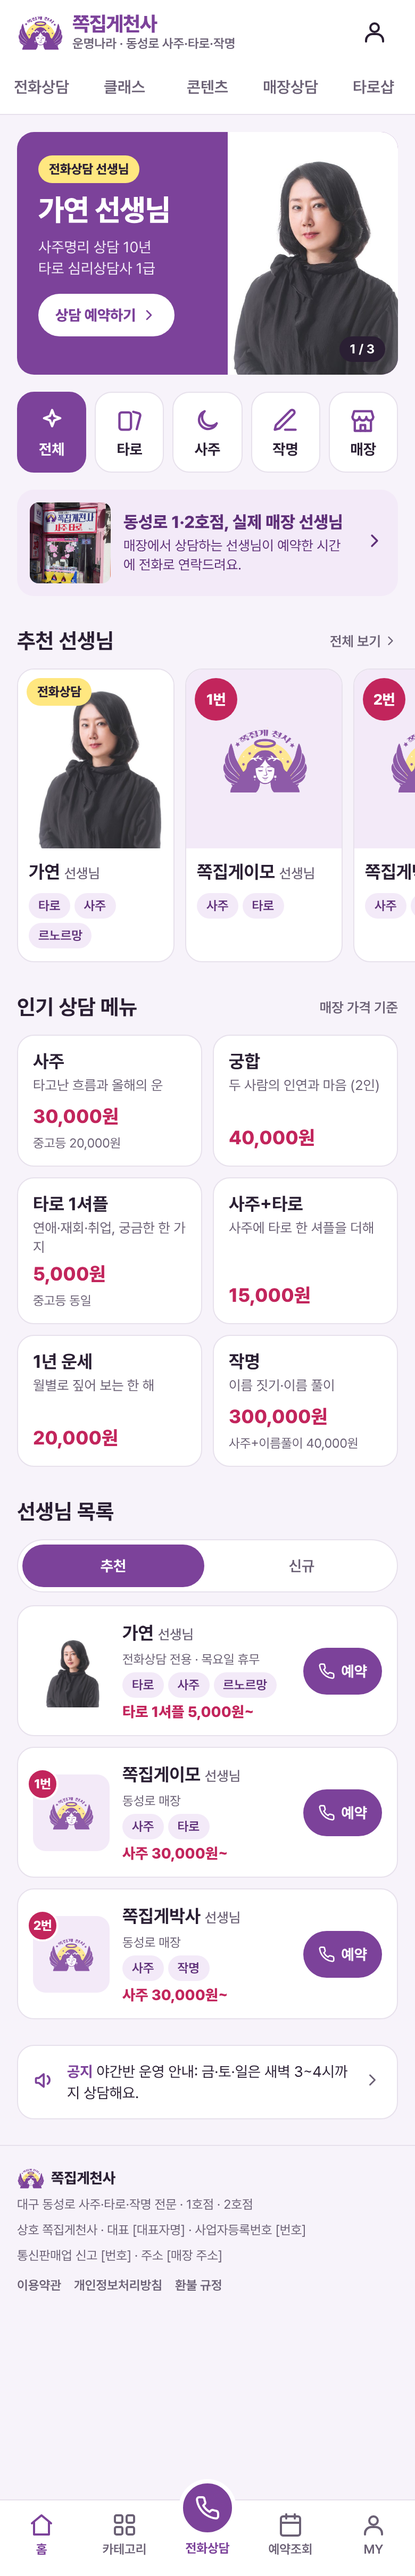
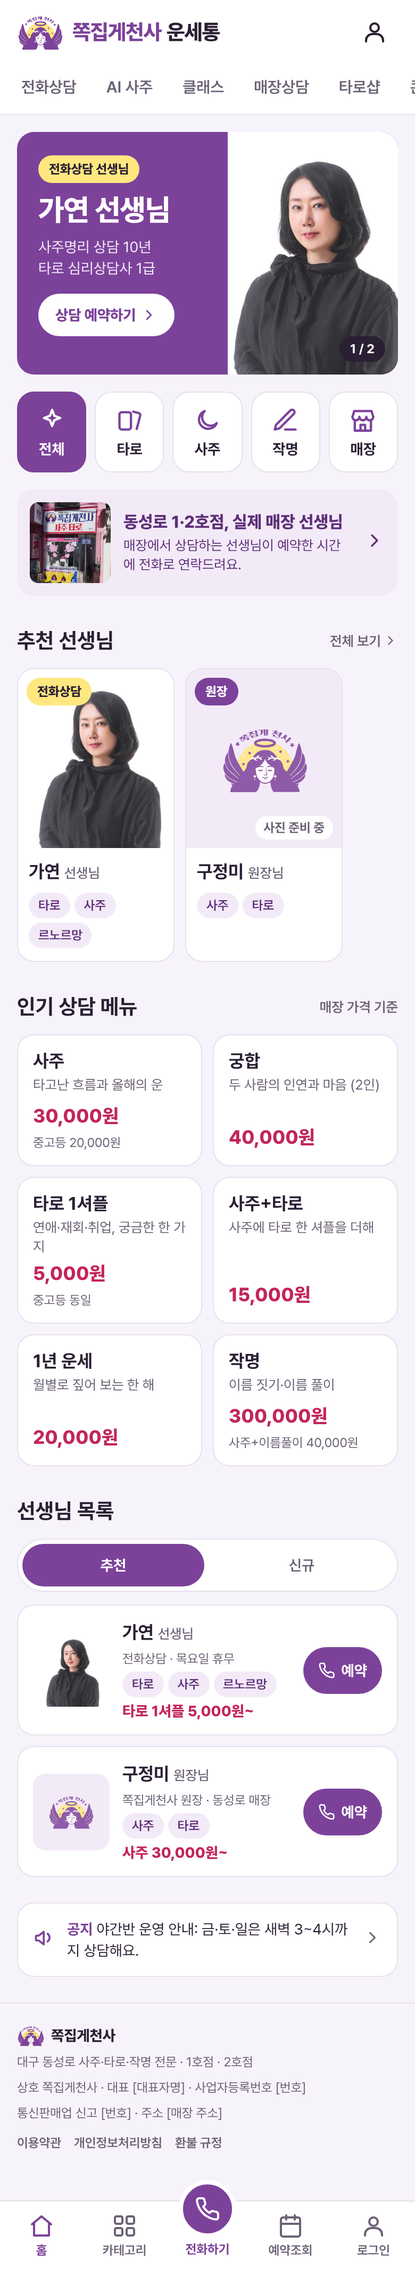
디자인 v2 1차 화면 그림을 11/20 수정본으로 교체
홈·전화상담·매장 화면의 그림과 HTML을 11/20 수정본으로 바꾸고, 보관 자료에 교체 기록을 남긴다.

diff --git a/docs/design/v2/html/main.html b/docs/design/v2/html/main.html
@@ -15,18 +15,17 @@ a{color:#7C429A;text-decoration:none}a:hover{color:#5E2F78}
 .ph{background:#F3EAF8;display:flex;align-items:center;justify-content:center}
 
 </style></head><body>
-<div style="position: relative; width: 390px; height: 2420px; overflow: hidden; background: #F7F3FA; font-family: 'Pretendard Variable', Pretendard, system-ui, sans-serif; color: #2A1F33;">
+<div style="position: relative; width: 390px; height: 2140px; overflow: hidden; background: #F7F3FA; font-family: 'Pretendard Variable', Pretendard, system-ui, sans-serif; color: #2A1F33;">
 <header style="display: flex; align-items: center; justify-content: space-between; height: 60px; padding: 0 16px; background: #FFFFFF;">
-<a href="Main.dc.html" style="display: flex; align-items: center; gap: 8px;" aria-label="쪽집게천사 운명나라 홈">
+<a href="Main.dc.html" style="display: flex; align-items: center; gap: 8px;" aria-label="쪽집게천사 운세통 홈">
 <img src="../images/logo-angel-mark.png" alt="" style="width: 44px; height: 34px; object-fit: contain;">
-<div style="display: flex; flex-direction: column; line-height: 1;">
-<span style="font-size: 19px; font-weight: 800; color: #7C429A; letter-spacing: -0.03em;">쪽집게천사</span>
-<span style="font-size: 12px; font-weight: 600; color: #6B6175; margin-top: 3px;">운명나라 · 동성로 사주·타로·작명</span>
+<div style="display: flex; align-items: baseline; gap: 5px; line-height: 1; white-space: nowrap; font-size: 20px; font-weight: 800; letter-spacing: -0.03em;">
+<span style="color: #7C429A;">쪽집게천사</span><span style="color: #2A1F33;">운세통</span>
 </div>
 </a>
-<button type="button" aria-label="로그인" style="width: 44px; height: 44px; border: 0; background: transparent; color: #2A1F33; display: flex; align-items: center; justify-content: center;"><svg class="ic" viewBox="0 0 24 24" aria-hidden="true" style="width: 24px; height: 24px;"><circle cx="12" cy="8" r="4"/><path d="M4 21v-1a6 6 0 0 1 6-6h4a6 6 0 0 1 6 6v1"/></svg></button>
+<a href="Login.dc.html" aria-label="로그인" style="width: 44px; height: 44px; border: 0; background: transparent; color: #2A1F33; display: flex; align-items: center; justify-content: center;"><svg class="ic" viewBox="0 0 24 24" aria-hidden="true" style="width: 24px; height: 24px;"><circle cx="12" cy="8" r="4"/><path d="M4 21v-1a6 6 0 0 1 6-6h4a6 6 0 0 1 6 6v1"/></svg></a>
 </header>
-<nav aria-label="주요 메뉴" style="display: grid; grid-template-columns: repeat(5, minmax(0, 1fr)); height: 48px; background: #FFFFFF; border-bottom: 1px solid #E7E1EC;"><a href="Consult.dc.html" style="display: flex; align-items: center; justify-content: center; font-size: 15px; font-weight: 600; color: #6B6175; border-bottom: 3px solid transparent;">전화상담</a><a href="Main.dc.html" style="display: flex; align-items: center; justify-content: center; font-size: 15px; font-weight: 600; color: #6B6175; border-bottom: 3px solid transparent;">클래스</a><a href="Main.dc.html" style="display: flex; align-items: center; justify-content: center; font-size: 15px; font-weight: 600; color: #6B6175; border-bottom: 3px solid transparent;">콘텐츠</a><a href="Stores.dc.html" style="display: flex; align-items: center; justify-content: center; font-size: 15px; font-weight: 600; color: #6B6175; border-bottom: 3px solid transparent;">매장상담</a><a href="Main.dc.html" style="display: flex; align-items: center; justify-content: center; font-size: 15px; font-weight: 600; color: #6B6175; border-bottom: 3px solid transparent;">타로샵</a></nav>
+<nav aria-label="주요 메뉴" style="display: flex; gap: 4px; height: 48px; padding: 0 8px; overflow-x: auto; white-space: nowrap; background: #FFFFFF; border-bottom: 1px solid #E7E1EC;"><a href="Consult.dc.html" style="flex: 0 0 auto; display: flex; align-items: center; padding: 0 12px; font-size: 15px; font-weight: 600; color: #6B6175; border-bottom: 3px solid transparent;">전화상담</a><a href="AiSaju.dc.html" style="flex: 0 0 auto; display: flex; align-items: center; padding: 0 12px; font-size: 15px; font-weight: 600; color: #6B6175; border-bottom: 3px solid transparent;">AI 사주</a><a href="Class.dc.html" style="flex: 0 0 auto; display: flex; align-items: center; padding: 0 12px; font-size: 15px; font-weight: 600; color: #6B6175; border-bottom: 3px solid transparent;">클래스</a><a href="Stores.dc.html" style="flex: 0 0 auto; display: flex; align-items: center; padding: 0 12px; font-size: 15px; font-weight: 600; color: #6B6175; border-bottom: 3px solid transparent;">매장상담</a><a href="Shop.dc.html" style="flex: 0 0 auto; display: flex; align-items: center; padding: 0 12px; font-size: 15px; font-weight: 600; color: #6B6175; border-bottom: 3px solid transparent;">타로샵</a><a href="Contents.dc.html" style="flex: 0 0 auto; display: flex; align-items: center; padding: 0 12px; font-size: 15px; font-weight: 600; color: #6B6175; border-bottom: 3px solid transparent;">콘텐츠</a></nav>
 <main style="padding-bottom: 96px;">
 <section aria-label="추천 배너" style="padding: 16px;">
 <div style="position: relative; height: 228px; border-radius: 16px; overflow: hidden; background: #7C429A;">
@@ -37,7 +36,7 @@ a{color:#7C429A;text-decoration:none}a:hover{color:#5E2F78}
 <div style="font-size: 14px; line-height: 20px; color: #F3EAF8;">사주명리 상담 10년<br>타로 심리상담사 1급</div>
 <a href="Counselor.dc.html" style="align-self: flex-start; display: inline-flex; align-items: center; gap: 4px; height: 40px; margin-top: 6px; padding: 0 16px; border-radius: 9999px; background: #FFFFFF; color: #7C429A; font-size: 14px; font-weight: 800;">상담 예약하기 <svg class="ic" viewBox="0 0 24 24" aria-hidden="true" style="width: 16px; height: 16px;"><path d="m9 18 6-6-6-6"/></svg></a>
 </div>
-<span style="position: absolute; right: 12px; bottom: 12px; display: inline-flex; align-items: center; height: 24px; padding: 0 10px; border-radius: 9999px; background: #2A1F33; color: #FFFFFF; font-size: 12px; font-weight: 700;">1 / 3</span>
+<span style="position: absolute; right: 12px; bottom: 12px; display: inline-flex; align-items: center; height: 24px; padding: 0 10px; border-radius: 9999px; background: #2A1F33; color: #FFFFFF; font-size: 12px; font-weight: 700;">1 / 2</span>
 </div>
 </section>
 <section aria-label="카테고리" style="display: grid; grid-template-columns: repeat(5, minmax(0, 1fr)); gap: 8px; padding: 0 16px 16px;">
@@ -61,20 +60,10 @@ a{color:#7C429A;text-decoration:none}a:hover{color:#5E2F78}
 <div style="font-size: 17px; font-weight: 700; line-height: 24px;">가연 <span style="font-size: 13px; font-weight: 500; color: #6B6175;">선생님</span></div>
 <div style="display: flex; gap: 4px; flex-wrap: wrap;"><span class="chip">타로</span><span class="chip">사주</span><span class="chip">르노르망</span></div>
 </div></a><a href="Counselor.dc.html" class="card" style="flex: 0 0 148px; overflow: hidden; color: #2A1F33;">
-<div style="position: relative;"><div class="ph" style="width: 148px; height: 168px;"><img src="../images/logo-angel-mark.png" alt="" style="width: 84px; opacity: 0.85;"></div><span class="num" style="position: absolute; left: 8px; top: 8px; width: 40px; height: 40px; font-size: 14px;">1번</span></div>
+<div style="position: relative;"><div class="ph" style="width: 148px; height: 168px;"><img src="../images/logo-angel-mark.png" alt="" style="width: 84px; opacity: 0.85;"></div><span style="position: absolute; left: 8px; top: 8px; display: inline-flex; align-items: center; height: 26px; padding: 0 10px; border-radius: 9999px; background: #7C429A; color: #FFFFFF; font-size: 12px; font-weight: 800;">원장</span><span style="position: absolute; right: 8px; bottom: 8px; display: inline-flex; align-items: center; height: 22px; padding: 0 8px; border-radius: 9999px; background: #FFFFFF; color: #6B6175; font-size: 12px; font-weight: 700;">사진 준비 중</span></div>
 <div style="padding: 10px 10px 12px; display: flex; flex-direction: column; gap: 6px;">
-<div style="font-size: 17px; font-weight: 700; line-height: 24px;">쪽집게이모 <span style="font-size: 13px; font-weight: 500; color: #6B6175;">선생님</span></div>
+<div style="font-size: 17px; font-weight: 700; line-height: 24px;">구정미 <span style="font-size: 13px; font-weight: 500; color: #6B6175;">원장님</span></div>
 <div style="display: flex; gap: 4px; flex-wrap: wrap;"><span class="chip">사주</span><span class="chip">타로</span></div>
-</div></a><a href="Counselor.dc.html" class="card" style="flex: 0 0 148px; overflow: hidden; color: #2A1F33;">
-<div style="position: relative;"><div class="ph" style="width: 148px; height: 168px;"><img src="../images/logo-angel-mark.png" alt="" style="width: 84px; opacity: 0.85;"></div><span class="num" style="position: absolute; left: 8px; top: 8px; width: 40px; height: 40px; font-size: 14px;">2번</span></div>
-<div style="padding: 10px 10px 12px; display: flex; flex-direction: column; gap: 6px;">
-<div style="font-size: 17px; font-weight: 700; line-height: 24px;">쪽집게박사 <span style="font-size: 13px; font-weight: 500; color: #6B6175;">선생님</span></div>
-<div style="display: flex; gap: 4px; flex-wrap: wrap;"><span class="chip">사주</span><span class="chip">작명</span></div>
-</div></a><a href="Counselor.dc.html" class="card" style="flex: 0 0 148px; overflow: hidden; color: #2A1F33;">
-<div style="position: relative;"><div class="ph" style="width: 148px; height: 168px;"><img src="../images/logo-angel-mark.png" alt="" style="width: 84px; opacity: 0.85;"></div><span class="num" style="position: absolute; left: 8px; top: 8px; width: 40px; height: 40px; font-size: 14px;">4번</span></div>
-<div style="padding: 10px 10px 12px; display: flex; flex-direction: column; gap: 6px;">
-<div style="font-size: 17px; font-weight: 700; line-height: 24px;">천사 <span style="font-size: 13px; font-weight: 500; color: #6B6175;">선생님</span></div>
-<div style="display: flex; gap: 4px; flex-wrap: wrap;"><span class="chip">타로</span><span class="chip">사주</span></div>
 </div></a></div>
 </section>
 <section style="padding-bottom: 28px;">
@@ -109,26 +98,17 @@ a{color:#7C429A;text-decoration:none}a:hover{color:#5E2F78}
 <div style="position: relative; flex-shrink: 0;"><img src="../images/gayeon.jpg" alt="가연 선생님" style="width: 72px; height: 72px; border-radius: 12px; object-fit: cover; object-position: center 18%;"></div>
 <div style="flex: 1; min-width: 0; display: flex; flex-direction: column; gap: 5px;">
 <div style="font-size: 17px; font-weight: 700; line-height: 22px;">가연 <span style="font-size: 13px; font-weight: 500; color: #6B6175;">선생님</span></div>
-<div style="font-size: 12px; color: #6B6175;">전화상담 전용 · 목요일 휴무</div>
+<div style="font-size: 12px; color: #6B6175;">전화상담 · 목요일 휴무</div>
 <div style="display: flex; gap: 4px; flex-wrap: wrap;"><span class="chip">타로</span><span class="chip">사주</span><span class="chip">르노르망</span></div>
 <div style="font-size: 14px; font-weight: 800; color: #C2255C;">타로 1셔플 5,000원~</div>
 </div>
 <a href="Counselor.dc.html" class="btn" style="height: 44px; padding: 0 14px; flex-shrink: 0;"><svg class="ic" viewBox="0 0 24 24" aria-hidden="true" style="width: 16px; height: 16px;"><path d="M22 16.9v3a2 2 0 0 1-2.2 2 19.8 19.8 0 0 1-8.6-3.1 19.5 19.5 0 0 1-6-6A19.8 19.8 0 0 1 2.1 4.2 2 2 0 0 1 4.1 2h3a2 2 0 0 1 2 1.7c.1.9.4 1.8.7 2.7a2 2 0 0 1-.5 2.1L8 9.8a16 16 0 0 0 6 6l1.3-1.3a2 2 0 0 1 2.1-.4c.9.3 1.8.6 2.7.7a2 2 0 0 1 1.7 2z"/></svg>예약</a>
 </div><div class="card" style="display: flex; gap: 12px; padding: 14px; align-items: center;">
-<div style="position: relative; flex-shrink: 0;"><div class="ph" style="width: 72px; height: 72px; border-radius: 12px;"><img src="../images/logo-angel-mark.png" alt="" style="width: 44px; opacity: 0.85;"></div><span class="num" style="position: absolute; left: -6px; top: -6px; width: 30px; height: 30px; font-size: 12px; border: 2px solid #FFFFFF;">1번</span></div>
+<div style="position: relative; flex-shrink: 0;"><div class="ph" style="width: 72px; height: 72px; border-radius: 12px;"><img src="../images/logo-angel-mark.png" alt="" style="width: 44px; opacity: 0.85;"></div></div>
 <div style="flex: 1; min-width: 0; display: flex; flex-direction: column; gap: 5px;">
-<div style="font-size: 17px; font-weight: 700; line-height: 22px;">쪽집게이모 <span style="font-size: 13px; font-weight: 500; color: #6B6175;">선생님</span></div>
-<div style="font-size: 12px; color: #6B6175;">동성로 매장</div>
+<div style="font-size: 17px; font-weight: 700; line-height: 22px;">구정미 <span style="font-size: 13px; font-weight: 500; color: #6B6175;">원장님</span></div>
+<div style="font-size: 12px; color: #6B6175;">쪽집게천사 원장 · 동성로 매장</div>
 <div style="display: flex; gap: 4px; flex-wrap: wrap;"><span class="chip">사주</span><span class="chip">타로</span></div>
-<div style="font-size: 14px; font-weight: 800; color: #C2255C;">사주 30,000원~</div>
-</div>
-<a href="Counselor.dc.html" class="btn" style="height: 44px; padding: 0 14px; flex-shrink: 0;"><svg class="ic" viewBox="0 0 24 24" aria-hidden="true" style="width: 16px; height: 16px;"><path d="M22 16.9v3a2 2 0 0 1-2.2 2 19.8 19.8 0 0 1-8.6-3.1 19.5 19.5 0 0 1-6-6A19.8 19.8 0 0 1 2.1 4.2 2 2 0 0 1 4.1 2h3a2 2 0 0 1 2 1.7c.1.9.4 1.8.7 2.7a2 2 0 0 1-.5 2.1L8 9.8a16 16 0 0 0 6 6l1.3-1.3a2 2 0 0 1 2.1-.4c.9.3 1.8.6 2.7.7a2 2 0 0 1 1.7 2z"/></svg>예약</a>
-</div><div class="card" style="display: flex; gap: 12px; padding: 14px; align-items: center;">
-<div style="position: relative; flex-shrink: 0;"><div class="ph" style="width: 72px; height: 72px; border-radius: 12px;"><img src="../images/logo-angel-mark.png" alt="" style="width: 44px; opacity: 0.85;"></div><span class="num" style="position: absolute; left: -6px; top: -6px; width: 30px; height: 30px; font-size: 12px; border: 2px solid #FFFFFF;">2번</span></div>
-<div style="flex: 1; min-width: 0; display: flex; flex-direction: column; gap: 5px;">
-<div style="font-size: 17px; font-weight: 700; line-height: 22px;">쪽집게박사 <span style="font-size: 13px; font-weight: 500; color: #6B6175;">선생님</span></div>
-<div style="font-size: 12px; color: #6B6175;">동성로 매장</div>
-<div style="display: flex; gap: 4px; flex-wrap: wrap;"><span class="chip">사주</span><span class="chip">작명</span></div>
 <div style="font-size: 14px; font-weight: 800; color: #C2255C;">사주 30,000원~</div>
 </div>
 <a href="Counselor.dc.html" class="btn" style="height: 44px; padding: 0 14px; flex-shrink: 0;"><svg class="ic" viewBox="0 0 24 24" aria-hidden="true" style="width: 16px; height: 16px;"><path d="M22 16.9v3a2 2 0 0 1-2.2 2 19.8 19.8 0 0 1-8.6-3.1 19.5 19.5 0 0 1-6-6A19.8 19.8 0 0 1 2.1 4.2 2 2 0 0 1 4.1 2h3a2 2 0 0 1 2 1.7c.1.9.4 1.8.7 2.7a2 2 0 0 1-.5 2.1L8 9.8a16 16 0 0 0 6 6l1.3-1.3a2 2 0 0 1 2.1-.4c.9.3 1.8.6 2.7.7a2 2 0 0 1 1.7 2z"/></svg>예약</a>
@@ -151,8 +131,8 @@ a{color:#7C429A;text-decoration:none}a:hover{color:#5E2F78}
 </main>
 <nav aria-label="하단 메뉴" style="position: absolute; left: 0; right: 0; bottom: 0; display: grid; grid-template-columns: repeat(5, minmax(0, 1fr)); height: 72px; padding-bottom: 8px; background: #FFFFFF; border-top: 1px solid #E7E1EC;">
 <a href="Main.dc.html" style="display: flex; flex-direction: column; align-items: center; justify-content: center; gap: 4px; height: 64px; color: #7C429A; font-size: 12px; font-weight: 700;"><svg class="ic" viewBox="0 0 24 24" aria-hidden="true" style="width: 24px; height: 24px;"><path d="M3 10.5 12 3l9 7.5"/><path d="M5 9.5V21h14V9.5"/></svg><span>홈</span></a><a href="Main.dc.html" style="display: flex; flex-direction: column; align-items: center; justify-content: center; gap: 4px; height: 64px; color: #6B6175; font-size: 12px; font-weight: 600;"><svg class="ic" viewBox="0 0 24 24" aria-hidden="true" style="width: 24px; height: 24px;"><rect x="3" y="3" width="7" height="7" rx="1.5"/><rect x="14" y="3" width="7" height="7" rx="1.5"/><rect x="3" y="14" width="7" height="7" rx="1.5"/><rect x="14" y="14" width="7" height="7" rx="1.5"/></svg><span>카테고리</span></a>
-<a href="Consult.dc.html" style="display: flex; flex-direction: column; align-items: center; justify-content: flex-start; gap: 4px; color: #7C429A; font-size: 12px; font-weight: 700;"><span style="display: flex; align-items: center; justify-content: center; width: 54px; height: 54px; margin-top: -20px; border-radius: 9999px; background: #7C429A; color: #FFFFFF; border: 4px solid #FFFFFF;"><svg class="ic" viewBox="0 0 24 24" aria-hidden="true" style="width: 24px; height: 24px;"><path d="M22 16.9v3a2 2 0 0 1-2.2 2 19.8 19.8 0 0 1-8.6-3.1 19.5 19.5 0 0 1-6-6A19.8 19.8 0 0 1 2.1 4.2 2 2 0 0 1 4.1 2h3a2 2 0 0 1 2 1.7c.1.9.4 1.8.7 2.7a2 2 0 0 1-.5 2.1L8 9.8a16 16 0 0 0 6 6l1.3-1.3a2 2 0 0 1 2.1-.4c.9.3 1.8.6 2.7.7a2 2 0 0 1 1.7 2z"/></svg></span><span>전화상담</span></a>
-<a href="Main.dc.html" style="display: flex; flex-direction: column; align-items: center; justify-content: center; gap: 4px; height: 64px; color: #6B6175; font-size: 12px; font-weight: 600;"><svg class="ic" viewBox="0 0 24 24" aria-hidden="true" style="width: 24px; height: 24px;"><rect x="3" y="4" width="18" height="18" rx="2"/><path d="M16 2v4M8 2v4M3 10h18"/></svg><span>예약조회</span></a><a href="Main.dc.html" style="display: flex; flex-direction: column; align-items: center; justify-content: center; gap: 4px; height: 64px; color: #6B6175; font-size: 12px; font-weight: 600;"><svg class="ic" viewBox="0 0 24 24" aria-hidden="true" style="width: 24px; height: 24px;"><circle cx="12" cy="8" r="4"/><path d="M4 21v-1a6 6 0 0 1 6-6h4a6 6 0 0 1 6 6v1"/></svg><span>MY</span></a>
+<a href="Consult.dc.html" style="display: flex; flex-direction: column; align-items: center; justify-content: flex-start; gap: 4px; color: #7C429A; font-size: 12px; font-weight: 700;"><span style="display: flex; align-items: center; justify-content: center; width: 54px; height: 54px; margin-top: -20px; border-radius: 9999px; background: #7C429A; color: #FFFFFF; border: 4px solid #FFFFFF;"><svg class="ic" viewBox="0 0 24 24" aria-hidden="true" style="width: 24px; height: 24px;"><path d="M22 16.9v3a2 2 0 0 1-2.2 2 19.8 19.8 0 0 1-8.6-3.1 19.5 19.5 0 0 1-6-6A19.8 19.8 0 0 1 2.1 4.2 2 2 0 0 1 4.1 2h3a2 2 0 0 1 2 1.7c.1.9.4 1.8.7 2.7a2 2 0 0 1-.5 2.1L8 9.8a16 16 0 0 0 6 6l1.3-1.3a2 2 0 0 1 2.1-.4c.9.3 1.8.6 2.7.7a2 2 0 0 1 1.7 2z"/></svg></span><span>전화하기</span></a>
+<a href="Lookup.dc.html" style="display: flex; flex-direction: column; align-items: center; justify-content: center; gap: 4px; height: 64px; color: #6B6175; font-size: 12px; font-weight: 600;"><svg class="ic" viewBox="0 0 24 24" aria-hidden="true" style="width: 24px; height: 24px;"><rect x="3" y="4" width="18" height="18" rx="2"/><path d="M16 2v4M8 2v4M3 10h18"/></svg><span>예약조회</span></a><a href="Login.dc.html" style="display: flex; flex-direction: column; align-items: center; justify-content: center; gap: 4px; height: 64px; color: #6B6175; font-size: 12px; font-weight: 600;"><svg class="ic" viewBox="0 0 24 24" aria-hidden="true" style="width: 24px; height: 24px;"><circle cx="12" cy="8" r="4"/><path d="M4 21v-1a6 6 0 0 1 6-6h4a6 6 0 0 1 6 6v1"/></svg><span>로그인</span></a>
 </nav>
 </div>
 </body></html>

diff --git a/docs/design/v2/html/consult.html b/docs/design/v2/html/consult.html
@@ -15,18 +15,17 @@ a{color:#7C429A;text-decoration:none}a:hover{color:#5E2F78}
 .ph{background:#F3EAF8;display:flex;align-items:center;justify-content:center}
 
 </style></head><body>
-<div style="position: relative; width: 390px; height: 1580px; overflow: hidden; background: #F7F3FA; font-family: 'Pretendard Variable', Pretendard, system-ui, sans-serif; color: #2A1F33;">
+<div style="position: relative; width: 390px; height: 1100px; overflow: hidden; background: #F7F3FA; font-family: 'Pretendard Variable', Pretendard, system-ui, sans-serif; color: #2A1F33;">
 <header style="display: flex; align-items: center; justify-content: space-between; height: 60px; padding: 0 16px; background: #FFFFFF;">
-<a href="Main.dc.html" style="display: flex; align-items: center; gap: 8px;" aria-label="쪽집게천사 운명나라 홈">
+<a href="Main.dc.html" style="display: flex; align-items: center; gap: 8px;" aria-label="쪽집게천사 운세통 홈">
 <img src="../images/logo-angel-mark.png" alt="" style="width: 44px; height: 34px; object-fit: contain;">
-<div style="display: flex; flex-direction: column; line-height: 1;">
-<span style="font-size: 19px; font-weight: 800; color: #7C429A; letter-spacing: -0.03em;">쪽집게천사</span>
-<span style="font-size: 12px; font-weight: 600; color: #6B6175; margin-top: 3px;">운명나라 · 동성로 사주·타로·작명</span>
+<div style="display: flex; align-items: baseline; gap: 5px; line-height: 1; white-space: nowrap; font-size: 20px; font-weight: 800; letter-spacing: -0.03em;">
+<span style="color: #7C429A;">쪽집게천사</span><span style="color: #2A1F33;">운세통</span>
 </div>
 </a>
-<button type="button" aria-label="로그인" style="width: 44px; height: 44px; border: 0; background: transparent; color: #2A1F33; display: flex; align-items: center; justify-content: center;"><svg class="ic" viewBox="0 0 24 24" aria-hidden="true" style="width: 24px; height: 24px;"><circle cx="12" cy="8" r="4"/><path d="M4 21v-1a6 6 0 0 1 6-6h4a6 6 0 0 1 6 6v1"/></svg></button>
+<a href="Login.dc.html" aria-label="로그인" style="width: 44px; height: 44px; border: 0; background: transparent; color: #2A1F33; display: flex; align-items: center; justify-content: center;"><svg class="ic" viewBox="0 0 24 24" aria-hidden="true" style="width: 24px; height: 24px;"><circle cx="12" cy="8" r="4"/><path d="M4 21v-1a6 6 0 0 1 6-6h4a6 6 0 0 1 6 6v1"/></svg></a>
 </header>
-<nav aria-label="주요 메뉴" style="display: grid; grid-template-columns: repeat(5, minmax(0, 1fr)); height: 48px; background: #FFFFFF; border-bottom: 1px solid #E7E1EC;"><a href="Consult.dc.html" style="display: flex; align-items: center; justify-content: center; font-size: 15px; font-weight: 700; color: #7C429A; border-bottom: 3px solid #7C429A;">전화상담</a><a href="Main.dc.html" style="display: flex; align-items: center; justify-content: center; font-size: 15px; font-weight: 600; color: #6B6175; border-bottom: 3px solid transparent;">클래스</a><a href="Main.dc.html" style="display: flex; align-items: center; justify-content: center; font-size: 15px; font-weight: 600; color: #6B6175; border-bottom: 3px solid transparent;">콘텐츠</a><a href="Stores.dc.html" style="display: flex; align-items: center; justify-content: center; font-size: 15px; font-weight: 600; color: #6B6175; border-bottom: 3px solid transparent;">매장상담</a><a href="Main.dc.html" style="display: flex; align-items: center; justify-content: center; font-size: 15px; font-weight: 600; color: #6B6175; border-bottom: 3px solid transparent;">타로샵</a></nav>
+<nav aria-label="주요 메뉴" style="display: flex; gap: 4px; height: 48px; padding: 0 8px; overflow-x: auto; white-space: nowrap; background: #FFFFFF; border-bottom: 1px solid #E7E1EC;"><a href="Consult.dc.html" style="flex: 0 0 auto; display: flex; align-items: center; padding: 0 12px; font-size: 15px; font-weight: 700; color: #7C429A; border-bottom: 3px solid #7C429A;">전화상담</a><a href="AiSaju.dc.html" style="flex: 0 0 auto; display: flex; align-items: center; padding: 0 12px; font-size: 15px; font-weight: 600; color: #6B6175; border-bottom: 3px solid transparent;">AI 사주</a><a href="Class.dc.html" style="flex: 0 0 auto; display: flex; align-items: center; padding: 0 12px; font-size: 15px; font-weight: 600; color: #6B6175; border-bottom: 3px solid transparent;">클래스</a><a href="Stores.dc.html" style="flex: 0 0 auto; display: flex; align-items: center; padding: 0 12px; font-size: 15px; font-weight: 600; color: #6B6175; border-bottom: 3px solid transparent;">매장상담</a><a href="Shop.dc.html" style="flex: 0 0 auto; display: flex; align-items: center; padding: 0 12px; font-size: 15px; font-weight: 600; color: #6B6175; border-bottom: 3px solid transparent;">타로샵</a><a href="Contents.dc.html" style="flex: 0 0 auto; display: flex; align-items: center; padding: 0 12px; font-size: 15px; font-weight: 600; color: #6B6175; border-bottom: 3px solid transparent;">콘텐츠</a></nav>
 <main style="padding: 24px 16px 96px; display: flex; flex-direction: column; gap: 16px;">
 <div>
 <h1 style="margin: 0; font-size: 26px; line-height: 34px; font-weight: 800;">전화상담</h1>
@@ -38,13 +37,13 @@ a{color:#7C429A;text-decoration:none}a:hover{color:#5E2F78}
 <div style="font-size: 13px; color: #6B6175;">회원가입 없이도 예약할 수 있어요. 예약 내역은 예약번호로 조회해요.</div>
 </div>
 <div style="display: flex; gap: 8px;"><button type="button" style="height: 40px; padding: 0 18px; border-radius: 9999px; border: 1px solid #7C429A; background: #7C429A; color: #FFFFFF; font-family: inherit; font-size: 14px; font-weight: 700;">전체</button><button type="button" style="height: 40px; padding: 0 18px; border-radius: 9999px; border: 1px solid #E7E1EC; background: #FFFFFF; color: #2A1F33; font-family: inherit; font-size: 14px; font-weight: 700;">타로</button><button type="button" style="height: 40px; padding: 0 18px; border-radius: 9999px; border: 1px solid #E7E1EC; background: #FFFFFF; color: #2A1F33; font-family: inherit; font-size: 14px; font-weight: 700;">사주</button><button type="button" style="height: 40px; padding: 0 18px; border-radius: 9999px; border: 1px solid #E7E1EC; background: #FFFFFF; color: #2A1F33; font-family: inherit; font-size: 14px; font-weight: 700;">작명</button></div>
-<div style="font-size: 13px; font-weight: 600; color: #6B6175;">선생님 4명</div>
+<div style="font-size: 13px; font-weight: 600; color: #6B6175;">선생님 2명</div>
 <div style="display: flex; flex-direction: column; gap: 12px;"><div class="card" style="padding: 14px; display: flex; flex-direction: column; gap: 12px;">
 <div style="display: flex; gap: 12px;">
 <div style="position: relative; flex-shrink: 0;"><img src="../images/gayeon.jpg" alt="가연 선생님" style="width: 84px; height: 84px; border-radius: 12px; object-fit: cover; object-position: center 18%;"></div>
 <div style="flex: 1; min-width: 0; display: flex; flex-direction: column; gap: 5px;">
 <div style="font-size: 17px; font-weight: 700; line-height: 22px;">가연 <span style="font-size: 13px; font-weight: 500; color: #6B6175;">선생님</span></div>
-<div style="font-size: 12px; color: #6B6175;">전화상담 전용 · 목요일 휴무</div>
+<div style="font-size: 12px; color: #6B6175;">전화상담 · 목요일 휴무</div>
 <div style="display: flex; gap: 4px; flex-wrap: wrap;"><span class="chip">타로</span><span class="chip">사주</span><span class="chip">르노르망</span></div>
 <div style="font-size: 13px; line-height: 18px; color: #2A1F33;">사주명리 10년 · 타로 심리상담사 1급</div>
 </div></div>
@@ -53,46 +52,22 @@ a{color:#7C429A;text-decoration:none}a:hover{color:#5E2F78}
 <a href="Counselor.dc.html" class="btn"><svg class="ic" viewBox="0 0 24 24" aria-hidden="true" style="width: 16px; height: 16px;"><path d="M22 16.9v3a2 2 0 0 1-2.2 2 19.8 19.8 0 0 1-8.6-3.1 19.5 19.5 0 0 1-6-6A19.8 19.8 0 0 1 2.1 4.2 2 2 0 0 1 4.1 2h3a2 2 0 0 1 2 1.7c.1.9.4 1.8.7 2.7a2 2 0 0 1-.5 2.1L8 9.8a16 16 0 0 0 6 6l1.3-1.3a2 2 0 0 1 2.1-.4c.9.3 1.8.6 2.7.7a2 2 0 0 1 1.7 2z"/></svg>전화상담 예약</a>
 </div></div><div class="card" style="padding: 14px; display: flex; flex-direction: column; gap: 12px;">
 <div style="display: flex; gap: 12px;">
-<div style="position: relative; flex-shrink: 0;"><div class="ph" style="width: 84px; height: 84px; border-radius: 12px;"><img src="../images/logo-angel-mark.png" alt="" style="width: 52px; opacity: 0.85;"></div><span class="num" style="position: absolute; left: -6px; top: -6px; width: 32px; height: 32px; font-size: 12px; border: 2px solid #FFFFFF;">1번</span></div>
+<div style="position: relative; flex-shrink: 0;"><div class="ph" style="width: 84px; height: 84px; border-radius: 12px;"><img src="../images/logo-angel-mark.png" alt="" style="width: 52px; opacity: 0.85;"></div></div>
 <div style="flex: 1; min-width: 0; display: flex; flex-direction: column; gap: 5px;">
-<div style="font-size: 17px; font-weight: 700; line-height: 22px;">쪽집게이모 <span style="font-size: 13px; font-weight: 500; color: #6B6175;">선생님</span></div>
-<div style="font-size: 12px; color: #6B6175;">동성로 매장</div>
+<div style="font-size: 17px; font-weight: 700; line-height: 22px;">구정미 <span style="font-size: 13px; font-weight: 500; color: #6B6175;">원장님</span></div>
+<div style="font-size: 12px; color: #6B6175;">쪽집게천사 원장 · 동성로 매장</div>
 <div style="display: flex; gap: 4px; flex-wrap: wrap;"><span class="chip">사주</span><span class="chip">타로</span></div>
 <div style="font-size: 13px; line-height: 18px; color: #2A1F33;">[소개 문구 받기 전]</div>
 </div></div>
 <div style="display: flex; align-items: center; justify-content: space-between; padding-top: 12px; border-top: 1px solid #E7E1EC;">
 <span style="font-size: 15px; font-weight: 800; color: #C2255C;">사주 30,000원~</span>
 <a href="Counselor.dc.html" class="btn"><svg class="ic" viewBox="0 0 24 24" aria-hidden="true" style="width: 16px; height: 16px;"><path d="M22 16.9v3a2 2 0 0 1-2.2 2 19.8 19.8 0 0 1-8.6-3.1 19.5 19.5 0 0 1-6-6A19.8 19.8 0 0 1 2.1 4.2 2 2 0 0 1 4.1 2h3a2 2 0 0 1 2 1.7c.1.9.4 1.8.7 2.7a2 2 0 0 1-.5 2.1L8 9.8a16 16 0 0 0 6 6l1.3-1.3a2 2 0 0 1 2.1-.4c.9.3 1.8.6 2.7.7a2 2 0 0 1 1.7 2z"/></svg>전화상담 예약</a>
-</div></div><div class="card" style="padding: 14px; display: flex; flex-direction: column; gap: 12px;">
-<div style="display: flex; gap: 12px;">
-<div style="position: relative; flex-shrink: 0;"><div class="ph" style="width: 84px; height: 84px; border-radius: 12px;"><img src="../images/logo-angel-mark.png" alt="" style="width: 52px; opacity: 0.85;"></div><span class="num" style="position: absolute; left: -6px; top: -6px; width: 32px; height: 32px; font-size: 12px; border: 2px solid #FFFFFF;">2번</span></div>
-<div style="flex: 1; min-width: 0; display: flex; flex-direction: column; gap: 5px;">
-<div style="font-size: 17px; font-weight: 700; line-height: 22px;">쪽집게박사 <span style="font-size: 13px; font-weight: 500; color: #6B6175;">선생님</span></div>
-<div style="font-size: 12px; color: #6B6175;">동성로 매장</div>
-<div style="display: flex; gap: 4px; flex-wrap: wrap;"><span class="chip">사주</span><span class="chip">작명</span></div>
-<div style="font-size: 13px; line-height: 18px; color: #2A1F33;">[소개 문구 받기 전]</div>
-</div></div>
-<div style="display: flex; align-items: center; justify-content: space-between; padding-top: 12px; border-top: 1px solid #E7E1EC;">
-<span style="font-size: 15px; font-weight: 800; color: #C2255C;">사주 30,000원~</span>
-<a href="Counselor.dc.html" class="btn"><svg class="ic" viewBox="0 0 24 24" aria-hidden="true" style="width: 16px; height: 16px;"><path d="M22 16.9v3a2 2 0 0 1-2.2 2 19.8 19.8 0 0 1-8.6-3.1 19.5 19.5 0 0 1-6-6A19.8 19.8 0 0 1 2.1 4.2 2 2 0 0 1 4.1 2h3a2 2 0 0 1 2 1.7c.1.9.4 1.8.7 2.7a2 2 0 0 1-.5 2.1L8 9.8a16 16 0 0 0 6 6l1.3-1.3a2 2 0 0 1 2.1-.4c.9.3 1.8.6 2.7.7a2 2 0 0 1 1.7 2z"/></svg>전화상담 예약</a>
-</div></div><div class="card" style="padding: 14px; display: flex; flex-direction: column; gap: 12px;">
-<div style="display: flex; gap: 12px;">
-<div style="position: relative; flex-shrink: 0;"><div class="ph" style="width: 84px; height: 84px; border-radius: 12px;"><img src="../images/logo-angel-mark.png" alt="" style="width: 52px; opacity: 0.85;"></div><span class="num" style="position: absolute; left: -6px; top: -6px; width: 32px; height: 32px; font-size: 12px; border: 2px solid #FFFFFF;">4번</span></div>
-<div style="flex: 1; min-width: 0; display: flex; flex-direction: column; gap: 5px;">
-<div style="font-size: 17px; font-weight: 700; line-height: 22px;">천사 <span style="font-size: 13px; font-weight: 500; color: #6B6175;">선생님</span></div>
-<div style="font-size: 12px; color: #6B6175;">동성로 매장</div>
-<div style="display: flex; gap: 4px; flex-wrap: wrap;"><span class="chip">타로</span><span class="chip">사주</span></div>
-<div style="font-size: 13px; line-height: 18px; color: #2A1F33;">[소개 문구 받기 전]</div>
-</div></div>
-<div style="display: flex; align-items: center; justify-content: space-between; padding-top: 12px; border-top: 1px solid #E7E1EC;">
-<span style="font-size: 15px; font-weight: 800; color: #C2255C;">타로 1셔플 5,000원~</span>
-<a href="Counselor.dc.html" class="btn"><svg class="ic" viewBox="0 0 24 24" aria-hidden="true" style="width: 16px; height: 16px;"><path d="M22 16.9v3a2 2 0 0 1-2.2 2 19.8 19.8 0 0 1-8.6-3.1 19.5 19.5 0 0 1-6-6A19.8 19.8 0 0 1 2.1 4.2 2 2 0 0 1 4.1 2h3a2 2 0 0 1 2 1.7c.1.9.4 1.8.7 2.7a2 2 0 0 1-.5 2.1L8 9.8a16 16 0 0 0 6 6l1.3-1.3a2 2 0 0 1 2.1-.4c.9.3 1.8.6 2.7.7a2 2 0 0 1 1.7 2z"/></svg>전화상담 예약</a>
 </div></div></div>
 </main>
 <nav aria-label="하단 메뉴" style="position: absolute; left: 0; right: 0; bottom: 0; display: grid; grid-template-columns: repeat(5, minmax(0, 1fr)); height: 72px; padding-bottom: 8px; background: #FFFFFF; border-top: 1px solid #E7E1EC;">
 <a href="Main.dc.html" style="display: flex; flex-direction: column; align-items: center; justify-content: center; gap: 4px; height: 64px; color: #6B6175; font-size: 12px; font-weight: 600;"><svg class="ic" viewBox="0 0 24 24" aria-hidden="true" style="width: 24px; height: 24px;"><path d="M3 10.5 12 3l9 7.5"/><path d="M5 9.5V21h14V9.5"/></svg><span>홈</span></a><a href="Main.dc.html" style="display: flex; flex-direction: column; align-items: center; justify-content: center; gap: 4px; height: 64px; color: #6B6175; font-size: 12px; font-weight: 600;"><svg class="ic" viewBox="0 0 24 24" aria-hidden="true" style="width: 24px; height: 24px;"><rect x="3" y="3" width="7" height="7" rx="1.5"/><rect x="14" y="3" width="7" height="7" rx="1.5"/><rect x="3" y="14" width="7" height="7" rx="1.5"/><rect x="14" y="14" width="7" height="7" rx="1.5"/></svg><span>카테고리</span></a>
-<a href="Consult.dc.html" style="display: flex; flex-direction: column; align-items: center; justify-content: flex-start; gap: 4px; color: #7C429A; font-size: 12px; font-weight: 700;"><span style="display: flex; align-items: center; justify-content: center; width: 54px; height: 54px; margin-top: -20px; border-radius: 9999px; background: #7C429A; color: #FFFFFF; border: 4px solid #FFFFFF;"><svg class="ic" viewBox="0 0 24 24" aria-hidden="true" style="width: 24px; height: 24px;"><path d="M22 16.9v3a2 2 0 0 1-2.2 2 19.8 19.8 0 0 1-8.6-3.1 19.5 19.5 0 0 1-6-6A19.8 19.8 0 0 1 2.1 4.2 2 2 0 0 1 4.1 2h3a2 2 0 0 1 2 1.7c.1.9.4 1.8.7 2.7a2 2 0 0 1-.5 2.1L8 9.8a16 16 0 0 0 6 6l1.3-1.3a2 2 0 0 1 2.1-.4c.9.3 1.8.6 2.7.7a2 2 0 0 1 1.7 2z"/></svg></span><span>전화상담</span></a>
-<a href="Main.dc.html" style="display: flex; flex-direction: column; align-items: center; justify-content: center; gap: 4px; height: 64px; color: #6B6175; font-size: 12px; font-weight: 600;"><svg class="ic" viewBox="0 0 24 24" aria-hidden="true" style="width: 24px; height: 24px;"><rect x="3" y="4" width="18" height="18" rx="2"/><path d="M16 2v4M8 2v4M3 10h18"/></svg><span>예약조회</span></a><a href="Main.dc.html" style="display: flex; flex-direction: column; align-items: center; justify-content: center; gap: 4px; height: 64px; color: #6B6175; font-size: 12px; font-weight: 600;"><svg class="ic" viewBox="0 0 24 24" aria-hidden="true" style="width: 24px; height: 24px;"><circle cx="12" cy="8" r="4"/><path d="M4 21v-1a6 6 0 0 1 6-6h4a6 6 0 0 1 6 6v1"/></svg><span>MY</span></a>
+<a href="Consult.dc.html" style="display: flex; flex-direction: column; align-items: center; justify-content: flex-start; gap: 4px; color: #7C429A; font-size: 12px; font-weight: 700;"><span style="display: flex; align-items: center; justify-content: center; width: 54px; height: 54px; margin-top: -20px; border-radius: 9999px; background: #7C429A; color: #FFFFFF; border: 4px solid #FFFFFF;"><svg class="ic" viewBox="0 0 24 24" aria-hidden="true" style="width: 24px; height: 24px;"><path d="M22 16.9v3a2 2 0 0 1-2.2 2 19.8 19.8 0 0 1-8.6-3.1 19.5 19.5 0 0 1-6-6A19.8 19.8 0 0 1 2.1 4.2 2 2 0 0 1 4.1 2h3a2 2 0 0 1 2 1.7c.1.9.4 1.8.7 2.7a2 2 0 0 1-.5 2.1L8 9.8a16 16 0 0 0 6 6l1.3-1.3a2 2 0 0 1 2.1-.4c.9.3 1.8.6 2.7.7a2 2 0 0 1 1.7 2z"/></svg></span><span>전화하기</span></a>
+<a href="Lookup.dc.html" style="display: flex; flex-direction: column; align-items: center; justify-content: center; gap: 4px; height: 64px; color: #6B6175; font-size: 12px; font-weight: 600;"><svg class="ic" viewBox="0 0 24 24" aria-hidden="true" style="width: 24px; height: 24px;"><rect x="3" y="4" width="18" height="18" rx="2"/><path d="M16 2v4M8 2v4M3 10h18"/></svg><span>예약조회</span></a><a href="Login.dc.html" style="display: flex; flex-direction: column; align-items: center; justify-content: center; gap: 4px; height: 64px; color: #6B6175; font-size: 12px; font-weight: 600;"><svg class="ic" viewBox="0 0 24 24" aria-hidden="true" style="width: 24px; height: 24px;"><circle cx="12" cy="8" r="4"/><path d="M4 21v-1a6 6 0 0 1 6-6h4a6 6 0 0 1 6 6v1"/></svg><span>로그인</span></a>
 </nav>
 </div>
 </body></html>

diff --git a/docs/design/v2/html/stores.html b/docs/design/v2/html/stores.html
@@ -17,16 +17,15 @@ a{color:#7C429A;text-decoration:none}a:hover{color:#5E2F78}
 </style></head><body>
 <div style="position: relative; width: 390px; height: 2420px; overflow: hidden; background: #F7F3FA; font-family: 'Pretendard Variable', Pretendard, system-ui, sans-serif; color: #2A1F33;">
 <header style="display: flex; align-items: center; justify-content: space-between; height: 60px; padding: 0 16px; background: #FFFFFF;">
-<a href="Main.dc.html" style="display: flex; align-items: center; gap: 8px;" aria-label="쪽집게천사 운명나라 홈">
+<a href="Main.dc.html" style="display: flex; align-items: center; gap: 8px;" aria-label="쪽집게천사 운세통 홈">
 <img src="../images/logo-angel-mark.png" alt="" style="width: 44px; height: 34px; object-fit: contain;">
-<div style="display: flex; flex-direction: column; line-height: 1;">
-<span style="font-size: 19px; font-weight: 800; color: #7C429A; letter-spacing: -0.03em;">쪽집게천사</span>
-<span style="font-size: 12px; font-weight: 600; color: #6B6175; margin-top: 3px;">운명나라 · 동성로 사주·타로·작명</span>
+<div style="display: flex; align-items: baseline; gap: 5px; line-height: 1; white-space: nowrap; font-size: 20px; font-weight: 800; letter-spacing: -0.03em;">
+<span style="color: #7C429A;">쪽집게천사</span><span style="color: #2A1F33;">운세통</span>
 </div>
 </a>
-<button type="button" aria-label="로그인" style="width: 44px; height: 44px; border: 0; background: transparent; color: #2A1F33; display: flex; align-items: center; justify-content: center;"><svg class="ic" viewBox="0 0 24 24" aria-hidden="true" style="width: 24px; height: 24px;"><circle cx="12" cy="8" r="4"/><path d="M4 21v-1a6 6 0 0 1 6-6h4a6 6 0 0 1 6 6v1"/></svg></button>
+<a href="Login.dc.html" aria-label="로그인" style="width: 44px; height: 44px; border: 0; background: transparent; color: #2A1F33; display: flex; align-items: center; justify-content: center;"><svg class="ic" viewBox="0 0 24 24" aria-hidden="true" style="width: 24px; height: 24px;"><circle cx="12" cy="8" r="4"/><path d="M4 21v-1a6 6 0 0 1 6-6h4a6 6 0 0 1 6 6v1"/></svg></a>
 </header>
-<nav aria-label="주요 메뉴" style="display: grid; grid-template-columns: repeat(5, minmax(0, 1fr)); height: 48px; background: #FFFFFF; border-bottom: 1px solid #E7E1EC;"><a href="Consult.dc.html" style="display: flex; align-items: center; justify-content: center; font-size: 15px; font-weight: 600; color: #6B6175; border-bottom: 3px solid transparent;">전화상담</a><a href="Main.dc.html" style="display: flex; align-items: center; justify-content: center; font-size: 15px; font-weight: 600; color: #6B6175; border-bottom: 3px solid transparent;">클래스</a><a href="Main.dc.html" style="display: flex; align-items: center; justify-content: center; font-size: 15px; font-weight: 600; color: #6B6175; border-bottom: 3px solid transparent;">콘텐츠</a><a href="Stores.dc.html" style="display: flex; align-items: center; justify-content: center; font-size: 15px; font-weight: 700; color: #7C429A; border-bottom: 3px solid #7C429A;">매장상담</a><a href="Main.dc.html" style="display: flex; align-items: center; justify-content: center; font-size: 15px; font-weight: 600; color: #6B6175; border-bottom: 3px solid transparent;">타로샵</a></nav>
+<nav aria-label="주요 메뉴" style="display: flex; gap: 4px; height: 48px; padding: 0 8px; overflow-x: auto; white-space: nowrap; background: #FFFFFF; border-bottom: 1px solid #E7E1EC;"><a href="Consult.dc.html" style="flex: 0 0 auto; display: flex; align-items: center; padding: 0 12px; font-size: 15px; font-weight: 600; color: #6B6175; border-bottom: 3px solid transparent;">전화상담</a><a href="AiSaju.dc.html" style="flex: 0 0 auto; display: flex; align-items: center; padding: 0 12px; font-size: 15px; font-weight: 600; color: #6B6175; border-bottom: 3px solid transparent;">AI 사주</a><a href="Class.dc.html" style="flex: 0 0 auto; display: flex; align-items: center; padding: 0 12px; font-size: 15px; font-weight: 600; color: #6B6175; border-bottom: 3px solid transparent;">클래스</a><a href="Stores.dc.html" style="flex: 0 0 auto; display: flex; align-items: center; padding: 0 12px; font-size: 15px; font-weight: 700; color: #7C429A; border-bottom: 3px solid #7C429A;">매장상담</a><a href="Shop.dc.html" style="flex: 0 0 auto; display: flex; align-items: center; padding: 0 12px; font-size: 15px; font-weight: 600; color: #6B6175; border-bottom: 3px solid transparent;">타로샵</a><a href="Contents.dc.html" style="flex: 0 0 auto; display: flex; align-items: center; padding: 0 12px; font-size: 15px; font-weight: 600; color: #6B6175; border-bottom: 3px solid transparent;">콘텐츠</a></nav>
 <main style="padding: 24px 16px 96px; display: flex; flex-direction: column; gap: 16px;">
 <div>
 <h1 style="margin: 0; font-size: 26px; line-height: 34px; font-weight: 800;">매장상담</h1>
@@ -75,8 +74,8 @@ a{color:#7C429A;text-decoration:none}a:hover{color:#5E2F78}
 </main>
 <nav aria-label="하단 메뉴" style="position: absolute; left: 0; right: 0; bottom: 0; display: grid; grid-template-columns: repeat(5, minmax(0, 1fr)); height: 72px; padding-bottom: 8px; background: #FFFFFF; border-top: 1px solid #E7E1EC;">
 <a href="Main.dc.html" style="display: flex; flex-direction: column; align-items: center; justify-content: center; gap: 4px; height: 64px; color: #6B6175; font-size: 12px; font-weight: 600;"><svg class="ic" viewBox="0 0 24 24" aria-hidden="true" style="width: 24px; height: 24px;"><path d="M3 10.5 12 3l9 7.5"/><path d="M5 9.5V21h14V9.5"/></svg><span>홈</span></a><a href="Main.dc.html" style="display: flex; flex-direction: column; align-items: center; justify-content: center; gap: 4px; height: 64px; color: #6B6175; font-size: 12px; font-weight: 600;"><svg class="ic" viewBox="0 0 24 24" aria-hidden="true" style="width: 24px; height: 24px;"><rect x="3" y="3" width="7" height="7" rx="1.5"/><rect x="14" y="3" width="7" height="7" rx="1.5"/><rect x="3" y="14" width="7" height="7" rx="1.5"/><rect x="14" y="14" width="7" height="7" rx="1.5"/></svg><span>카테고리</span></a>
-<a href="Consult.dc.html" style="display: flex; flex-direction: column; align-items: center; justify-content: flex-start; gap: 4px; color: #7C429A; font-size: 12px; font-weight: 700;"><span style="display: flex; align-items: center; justify-content: center; width: 54px; height: 54px; margin-top: -20px; border-radius: 9999px; background: #7C429A; color: #FFFFFF; border: 4px solid #FFFFFF;"><svg class="ic" viewBox="0 0 24 24" aria-hidden="true" style="width: 24px; height: 24px;"><path d="M22 16.9v3a2 2 0 0 1-2.2 2 19.8 19.8 0 0 1-8.6-3.1 19.5 19.5 0 0 1-6-6A19.8 19.8 0 0 1 2.1 4.2 2 2 0 0 1 4.1 2h3a2 2 0 0 1 2 1.7c.1.9.4 1.8.7 2.7a2 2 0 0 1-.5 2.1L8 9.8a16 16 0 0 0 6 6l1.3-1.3a2 2 0 0 1 2.1-.4c.9.3 1.8.6 2.7.7a2 2 0 0 1 1.7 2z"/></svg></span><span>전화상담</span></a>
-<a href="Main.dc.html" style="display: flex; flex-direction: column; align-items: center; justify-content: center; gap: 4px; height: 64px; color: #6B6175; font-size: 12px; font-weight: 600;"><svg class="ic" viewBox="0 0 24 24" aria-hidden="true" style="width: 24px; height: 24px;"><rect x="3" y="4" width="18" height="18" rx="2"/><path d="M16 2v4M8 2v4M3 10h18"/></svg><span>예약조회</span></a><a href="Main.dc.html" style="display: flex; flex-direction: column; align-items: center; justify-content: center; gap: 4px; height: 64px; color: #6B6175; font-size: 12px; font-weight: 600;"><svg class="ic" viewBox="0 0 24 24" aria-hidden="true" style="width: 24px; height: 24px;"><circle cx="12" cy="8" r="4"/><path d="M4 21v-1a6 6 0 0 1 6-6h4a6 6 0 0 1 6 6v1"/></svg><span>MY</span></a>
+<a href="Consult.dc.html" style="display: flex; flex-direction: column; align-items: center; justify-content: flex-start; gap: 4px; color: #7C429A; font-size: 12px; font-weight: 700;"><span style="display: flex; align-items: center; justify-content: center; width: 54px; height: 54px; margin-top: -20px; border-radius: 9999px; background: #7C429A; color: #FFFFFF; border: 4px solid #FFFFFF;"><svg class="ic" viewBox="0 0 24 24" aria-hidden="true" style="width: 24px; height: 24px;"><path d="M22 16.9v3a2 2 0 0 1-2.2 2 19.8 19.8 0 0 1-8.6-3.1 19.5 19.5 0 0 1-6-6A19.8 19.8 0 0 1 2.1 4.2 2 2 0 0 1 4.1 2h3a2 2 0 0 1 2 1.7c.1.9.4 1.8.7 2.7a2 2 0 0 1-.5 2.1L8 9.8a16 16 0 0 0 6 6l1.3-1.3a2 2 0 0 1 2.1-.4c.9.3 1.8.6 2.7.7a2 2 0 0 1 1.7 2z"/></svg></span><span>전화하기</span></a>
+<a href="Lookup.dc.html" style="display: flex; flex-direction: column; align-items: center; justify-content: center; gap: 4px; height: 64px; color: #6B6175; font-size: 12px; font-weight: 600;"><svg class="ic" viewBox="0 0 24 24" aria-hidden="true" style="width: 24px; height: 24px;"><rect x="3" y="4" width="18" height="18" rx="2"/><path d="M16 2v4M8 2v4M3 10h18"/></svg><span>예약조회</span></a><a href="Login.dc.html" style="display: flex; flex-direction: column; align-items: center; justify-content: center; gap: 4px; height: 64px; color: #6B6175; font-size: 12px; font-weight: 600;"><svg class="ic" viewBox="0 0 24 24" aria-hidden="true" style="width: 24px; height: 24px;"><circle cx="12" cy="8" r="4"/><path d="M4 21v-1a6 6 0 0 1 6-6h4a6 6 0 0 1 6 6v1"/></svg><span>로그인</span></a>
 </nav>
 </div>
 </body></html>

diff --git a/docs/design/v2/IMPLEMENTATION-NOTES.md b/docs/design/v2/IMPLEMENTATION-NOTES.md
@@ -52,3 +52,4 @@
 - `DESIGN-SPEC.md`, `tokens.json`, `screens/`의 네 화면, `html/*.html`은 받은 원본 그대로다.
 - 로고와 매장 사진은 `public/images/brand/`에 있다. DB `image_path`에 자동 등록하지 않는다.
 - 기존 `docs/design/mood-*.png`는 이전 시안 기록으로 남겨 둔다. 화면 기준은 v2 명세다.
+- 11/24: 홈·전화상담·매장 화면 그림과 HTML을 11/20 수정본(상단 탭 6개, 운세통 한 줄 헤더, 상담사 2명)으로 교체했다. 2차 화면과 11/20 지시는 DESIGN-SPEC-2차.md에 있다.
